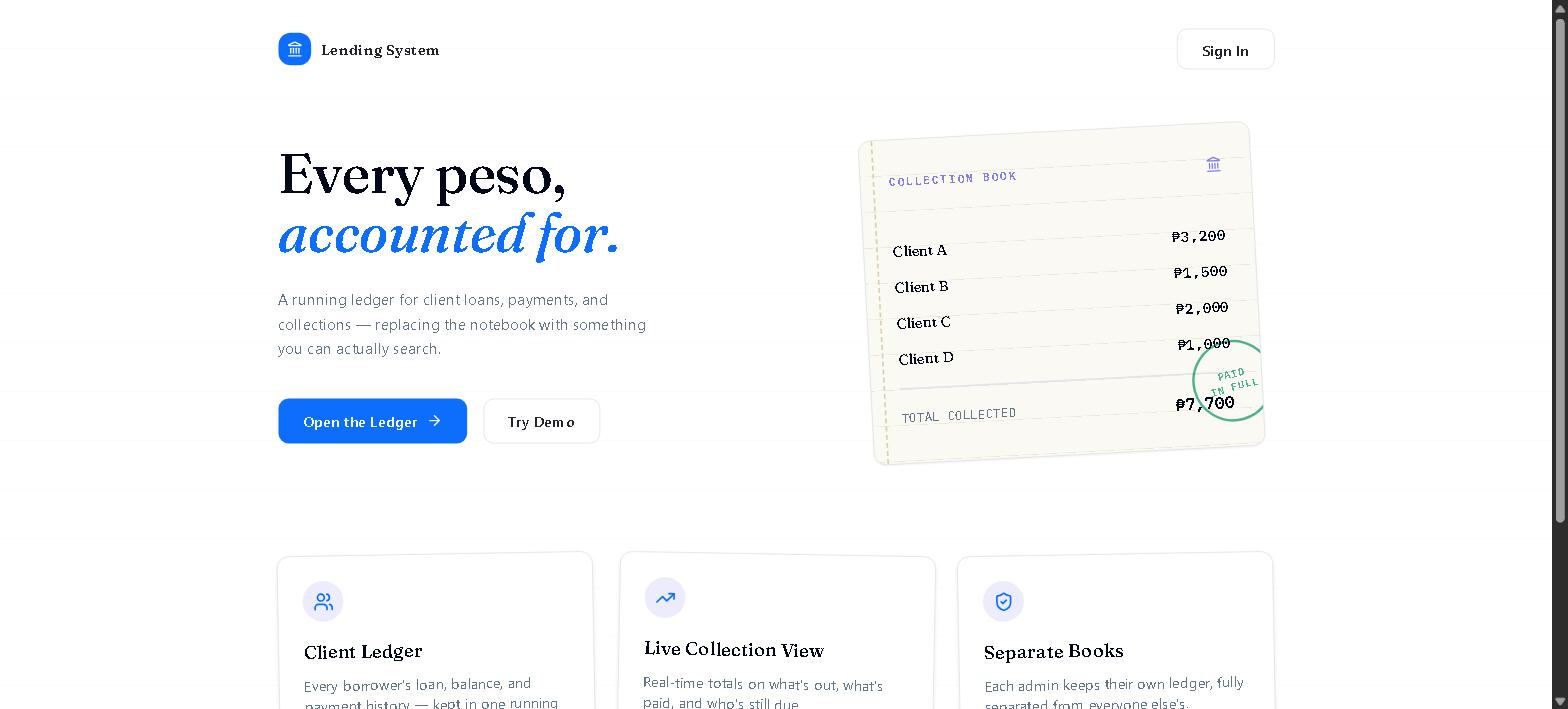
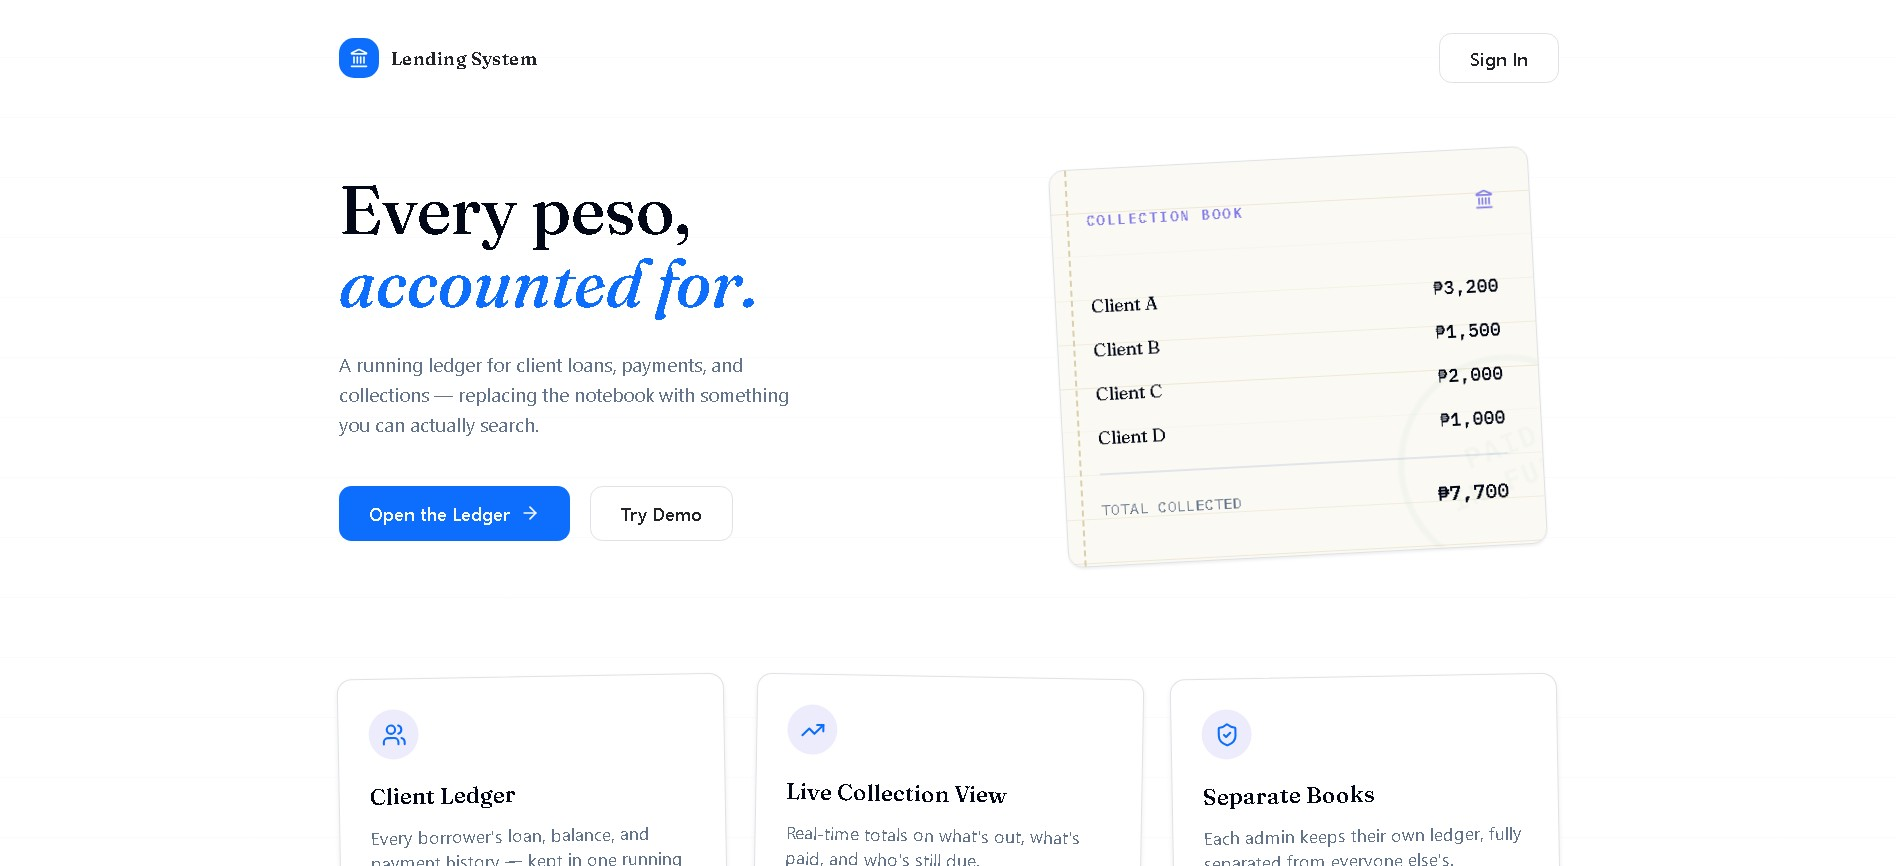
Add Lapse project and swap in clearer landing screenshots
Adds Lapse (compliance document expiry monitoring) to the featured
projects list, seeded into fallbackProjects.js, schema.sql, and the
live Supabase table. Also replaces the Lending, PayrollPro, and
AgentPro landing screenshots with clearer manual captures.

diff --git a/src/data/fallbackProjects.js b/src/data/fallbackProjects.js
@@ -72,6 +72,17 @@ export const fallbackProjects = [
     status: "building",
   },
   {
+    slug: "lapse",
+    title: "Lapse",
+    description:
+      "Multi-tenant compliance document expiry monitoring — organizations upload permits, registrations, and insurance policies, and Lapse reads each one, works out when it expires, and chases the responsible person until it's renewed. Uncertain AI extractions are gated into a human review queue rather than trusted blindly, and a self-monitoring daily sweep sends escalating reminders by email and in-app.",
+    tags: ["Next.js", "TypeScript", "Supabase", "Tailwind CSS", "Inngest"],
+    live_url: "https://lapse-chi.vercel.app/",
+    github_url: "https://github.com/Jayronj0616/Lapse",
+    cover_image: "/images/lapse/landing.jpg",
+    status: "live",
+  },
+  {
     slug: "trucking-system",
     title: "Trucking System",
     description:

diff --git a/PROJECTS.md b/PROJECTS.md
@@ -16,6 +16,7 @@ status changes here.
 | Caffeine Co. | 🟡 Building | caffeine-co-smoky.vercel.app | github.com/Jayronj0616/caffeine_co | Personal project. Rewritten since the original MERN prototype — now React + Vite + Supabase. Marked in progress, not live. |
 | Trucking System | 🟡 Building | — | github.com/Jayronj0616/iznahanyachay_trucking | Freelance work — payroll/attendance system for a trucking fleet. PHP/MySQL, no framework. Not deployed publicly (client runs it in-house). |
 | ~~Booking System~~ | Removed | — | — | Phoenix Publishing House Inc. internship project — excluded from the portfolio entirely per Jayron's request. |
+| Lapse | 🟢 Live | lapse-chi.vercel.app | github.com/Jayronj0616/Lapse | Personal project. Multi-tenant compliance document expiry monitoring — AI extraction with a human review gate, daily reminder sweep. Public demo on the landing page. Cover/gallery images pending — Jayron is capturing his own screenshots (paths reserved at `/images/lapse/{landing,dashboard,documents}.jpg`). |
 
 ## Status legend
 
